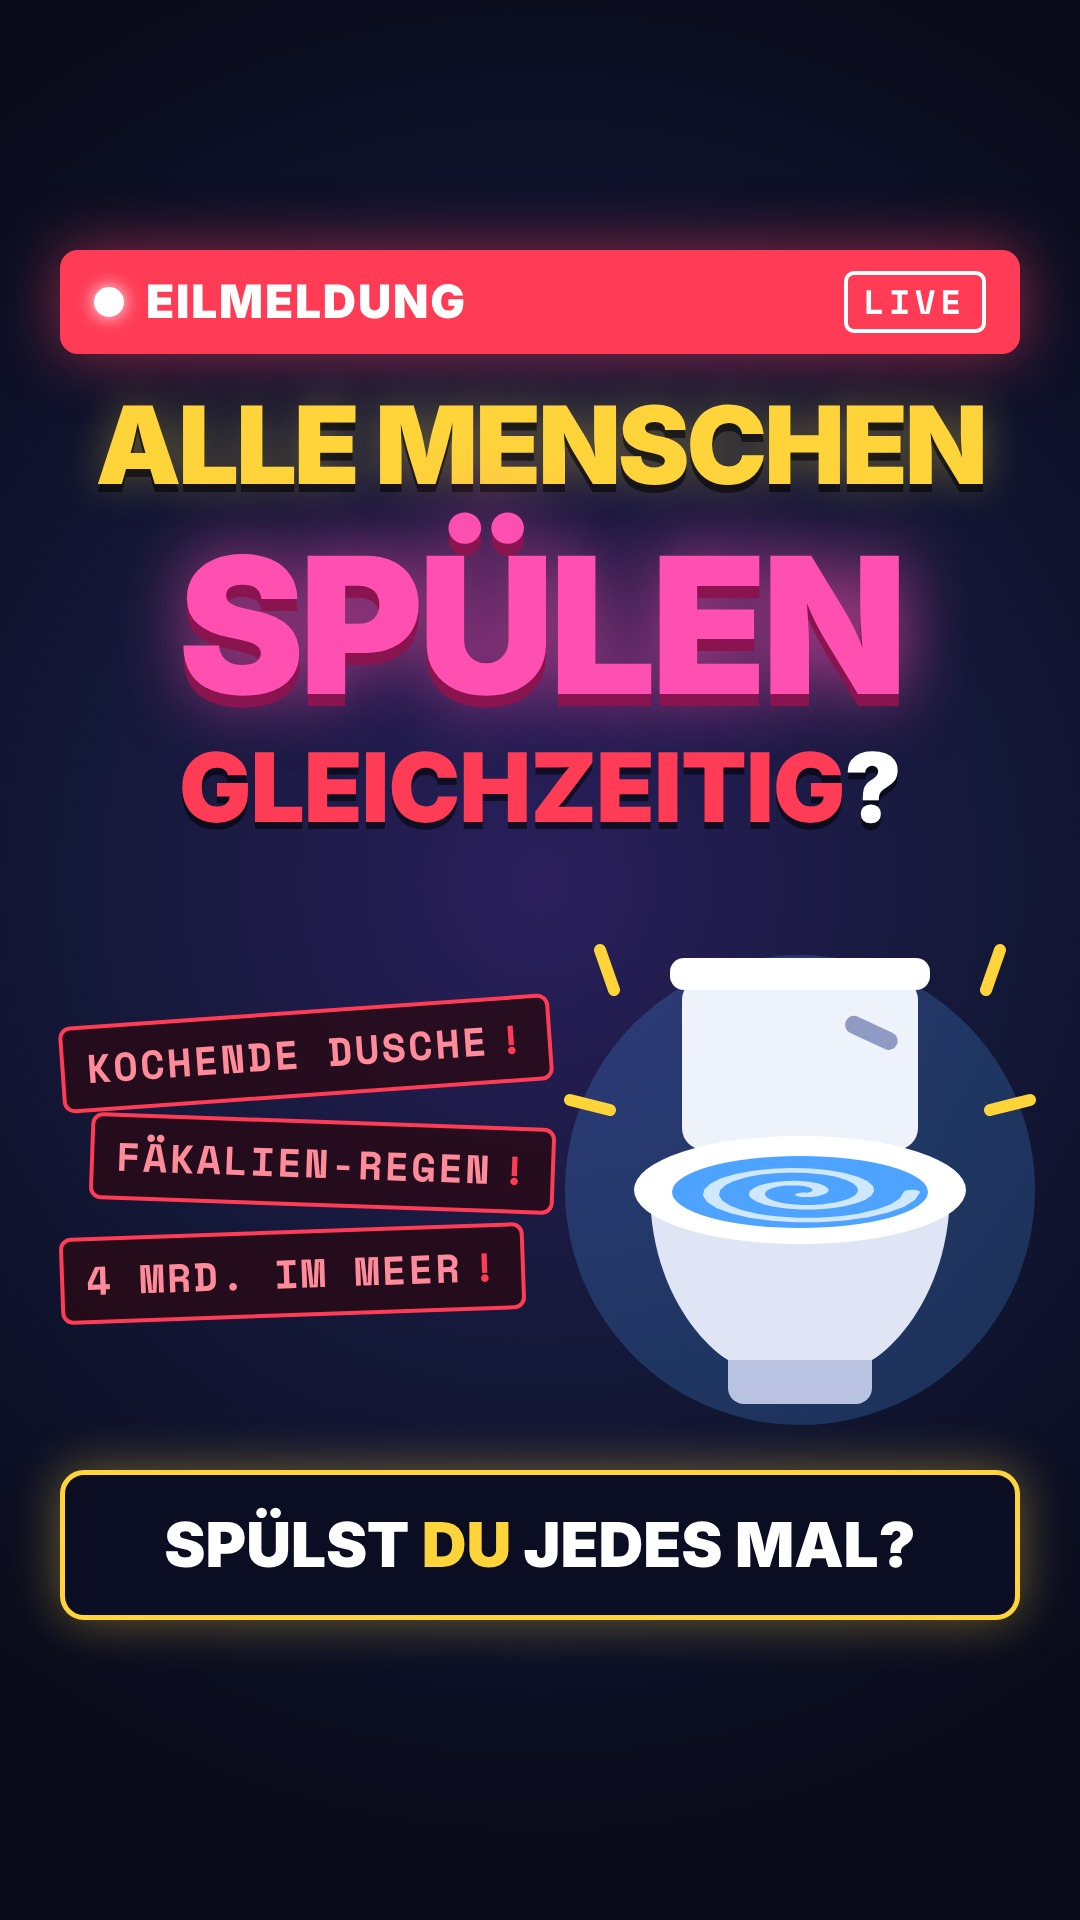
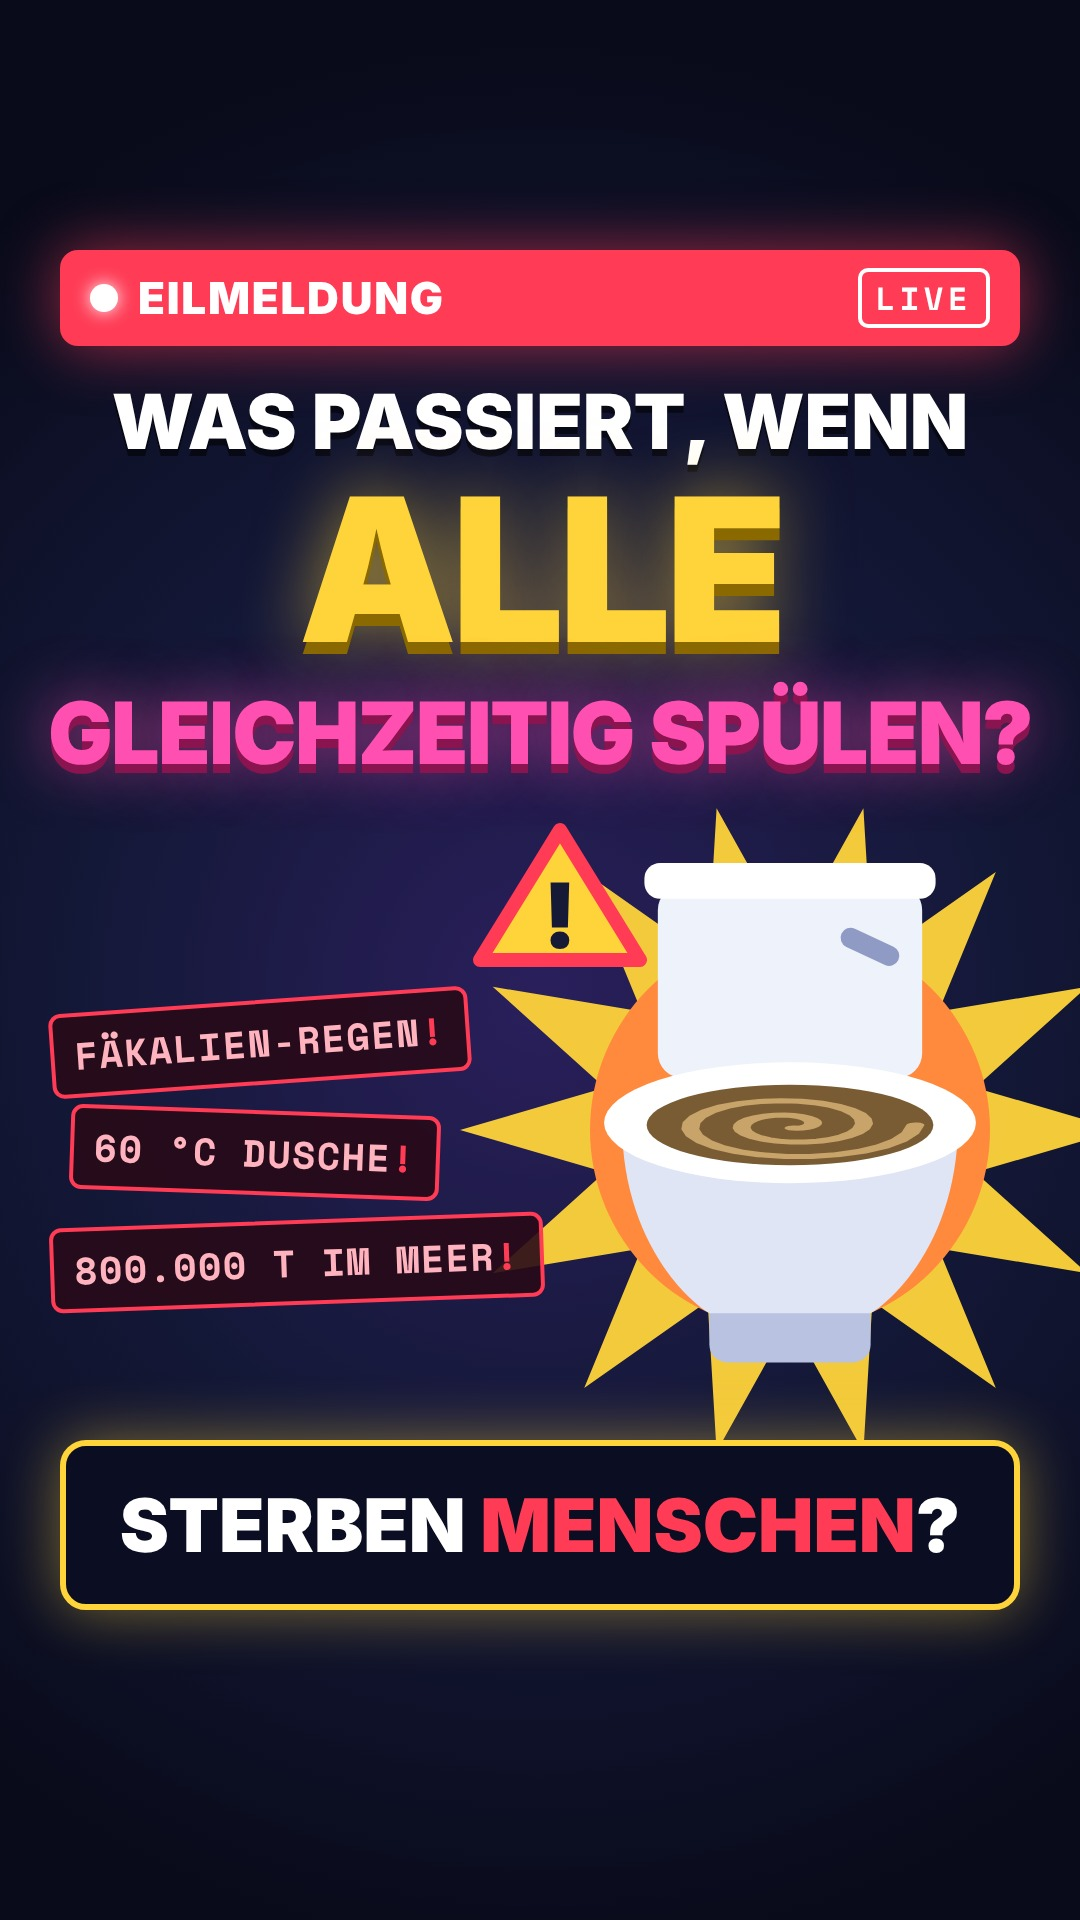
Klospülung: virales Cover (Sterben Menschen?) und neue Beschreibung
Claude-Session: https://claude.ai/code/session_01McNdgXtFA3X1Q1fLpDn8nE

diff --git a/videos/klospuelung/cover/index.html b/videos/klospuelung/cover/index.html
@@ -7,79 +7,59 @@
       * { margin: 0; padding: 0; box-sizing: border-box; }
       html, body { width: 1080px; height: 1920px; overflow: hidden; background: #0a0c1d; }
       #root { position: relative; width: 100%; height: 100%; overflow: hidden;
-        background: radial-gradient(ellipse 85% 50% at 50% 46%, #2a1f5c 0%, #141838 50%, #090b1a 100%); }
+        background: radial-gradient(ellipse 85% 50% at 50% 52%, #2a1f5c 0%, #141838 50%, #090b1a 100%); }
       .abs { position: absolute; }
-
-      /* Cover: Klospülung */
-      #globe { left: 40px; top: 560px; width: 1000px; height: 1000px; }
-
-      /* Eilmeldungs-Leiste oben (sichtbar auch im 3:4-Ausschnitt des Profilrasters) */
-      #bar { left: 60px; top: 250px; width: 960px; height: 104px; border-radius: 18px; background: #ffd43b; color: #161a36 !important;
-        display: flex; align-items: center; padding: 0 34px; color: #fff; box-shadow: 0 0 60px rgba(255,59,85,.55);
-        font-family: "Inter", sans-serif; font-weight: 900; font-size: 46px; letter-spacing: .03em; }
-      #bar .dot { width: 30px; height: 30px; border-radius: 50%; background: #fff; margin-right: 22px; box-shadow: 0 0 18px #fff; }
-      #bar .live { margin-left: auto; font-family: "Space Mono", monospace; font-weight: 700; font-size: 34px;
-        letter-spacing: .14em; padding: 2px 16px; border: 4px solid #fff; border-radius: 10px; }
-
-      /* Schlagzeile */
-      #h1 { left: 0; width: 1080px; top: 392px; text-align: center; font-family: "Inter", sans-serif; font-weight: 900; white-space: nowrap;
-        font-size: 108px; line-height: 1; letter-spacing: -.03em; color: #ffd43b;
-        text-shadow: 0 8px 0 rgba(0,0,0,.55), 0 0 40px rgba(255,212,59,.35); }
-      #h2 { left: 0; width: 1080px; top: 508px; white-space: nowrap; text-align: center; font-family: "Inter", sans-serif; font-weight: 900;
-        font-size: 92px; line-height: 1; letter-spacing: -.01em; color: #fff; text-shadow: 0 7px 0 rgba(0,0,0,.55); }
-      #gta { left: 0; width: 1080px; top: 530px; white-space: nowrap; text-align: center; font-family: "Inter", sans-serif; font-weight: 900;
-        font-size: 190px; line-height: 1; letter-spacing: -.03em; color: #ff4fb0;
-        text-shadow: 0 12px 0 #8a1450, 0 0 70px rgba(255,79,176,.75); }
-      #h3 { left: 0; width: 1080px; top: 740px; white-space: nowrap; text-align: center; font-family: "Inter", sans-serif; font-weight: 900;
-        font-size: 96px; line-height: 1; color: #fff; letter-spacing: -.01em; text-shadow: 0 7px 0 rgba(0,0,0,.55); }
-
-      /* Kalenderblatt, schräg */
-      #cal { left: 760px; top: 1120px; width: 240px; height: 262px; border-radius: 20px; background: #f3f1ea; overflow: hidden;
-        transform: rotate(8deg); box-shadow: 0 24px 60px rgba(0,0,0,.6); }
-      #cal .hd { height: 70px; background: #ff3b55; color: #fff; text-align: center; line-height: 70px;
-        font-family: "Inter", sans-serif; font-weight: 900; font-size: 34px; letter-spacing: .06em; }
-      #cal .d { text-align: center; font-family: "Inter", sans-serif; font-weight: 900; font-size: 150px; line-height: 186px; color: #161a36; }
-
-      /* Was kaputtgeht: Teaser-Chips */
-      .chip { padding: 10px 22px; border: 4px solid #ff3b55; border-radius: 12px; background: rgba(40,10,24,.85);
-        color: #ff8a9a; font-family: "Space Mono", monospace; font-weight: 700; font-size: 40px; letter-spacing: .06em; }
-      .chip b { color: #ff3b55; margin-left: 10px; }
-      #c1 { left: 60px; top: 1010px; transform: rotate(-4deg); }
-      #c2 { left: 90px; top: 1120px; transform: rotate(2deg); }
-      #c3 { left: 60px; top: 1230px; transform: rotate(-2deg); }
-
-      /* Frage unten */
-      #q { left: 60px; width: 960px; top: 1470px; height: 150px; border-radius: 24px; background: #0b0e22;
-        border: 5px solid #ffd43b; box-shadow: 0 0 50px rgba(255,212,59,.4); text-align: center; color: #fff;
-        font-family: "Inter", sans-serif; font-weight: 900; font-size: 70px; line-height: 140px; }
-      #q span { color: #ffd43b; }
+      .c { left: 0; width: 1080px; text-align: center; white-space: nowrap; font-family: "Inter", sans-serif; font-weight: 900; line-height: 1; }
+      #bar { left: 60px; top: 250px; width: 960px; height: 96px; border-radius: 18px; background: #ff3b55; color: #fff; display: flex; align-items: center; padding: 0 30px;
+        box-shadow: 0 0 60px rgba(255,59,85,.6); font: 900 44px Inter, sans-serif; letter-spacing: .04em; }
+      #bar .dot { width: 28px; height: 28px; border-radius: 50%; background: #fff; margin-right: 20px; box-shadow: 0 0 18px #fff; }
+      #bar .live { margin-left: auto; font: 700 32px "Space Mono", monospace; letter-spacing: .14em; padding: 2px 14px; border: 4px solid #fff; border-radius: 10px; }
+      #h1 { top: 384px; font-size: 76px; color: #fff; text-shadow: 0 7px 0 rgba(0,0,0,.55); }
+      #h2 { top: 470px; font-size: 200px; letter-spacing: -.03em; color: #ffd43b; text-shadow: 0 12px 0 #8a6a00, 0 0 70px rgba(255,212,59,.6); }
+      #h3 { top: 690px; font-size: 86px; letter-spacing: -.02em; color: #ff4fb0; text-shadow: 0 9px 0 #8a1450, 0 0 60px rgba(255,79,176,.7); }
+      .chip { padding: 10px 20px; border: 4px solid #ff3b55; border-radius: 12px; background: rgba(40,10,24,.9);
+        color: #ffb3bf; font: 700 38px "Space Mono", monospace; letter-spacing: .04em; white-space: nowrap; }
+      .chip b { color: #ff3b55; }
+      #c1 { left: 50px; top: 1000px; transform: rotate(-4deg); }
+      #c2 { left: 70px; top: 1110px; transform: rotate(2deg); }
+      #c3 { left: 50px; top: 1220px; transform: rotate(-2deg); }
+      #q { left: 60px; width: 960px; top: 1440px; height: 170px; border-radius: 26px; background: #0b0e22; border: 6px solid #ffd43b;
+        box-shadow: 0 0 60px rgba(255,212,59,.45); text-align: center; color: #fff; font: 900 74px/158px Inter, sans-serif; }
+      #q span { color: #ff3b55; }
     </style>
   </head>
   <body>
     <div id="root" data-composition-id="cover" data-start="0" data-duration="1" data-width="1080" data-height="1920" data-no-timeline>
-      <svg id="pb" class="abs" style="left:560px;top:930px;width:480px;height:520px" viewBox="-240 -320 480 520">
-        <circle cx="0" cy="-60" r="235" fill="#4da3ff" opacity=".22"/>
-        <rect x="-72" y="90" width="144" height="64" rx="16" fill="#b9c2e0"/>
-        <path d="M-150 -60 C-150 40 -96 96 -72 110 L72 110 C96 96 150 40 150 -60Z" fill="#dfe5f5"/>
-        <rect x="-34" y="-112" width="68" height="60" fill="#cfd6ec"/>
-        <rect x="-118" y="-272" width="236" height="172" rx="22" fill="#eef2fb"/><rect x="-130" y="-292" width="260" height="32" rx="14" fill="#fff"/>
-        <rect x="46" y="-238" width="56" height="18" rx="9" fill="#8f9bc4" transform="rotate(25 46 -229)"/>
-        <ellipse cx="0" cy="-60" rx="166" ry="54" fill="#fff"/><ellipse cx="0" cy="-58" rx="128" ry="36" fill="#4da3ff"/>
-        <g transform="translate(0 -58) scale(1 0.28)"><path id="sp" fill="none" stroke="#cfe8ff" stroke-width="16" stroke-linecap="round"/></g>
-        <path d="M-200 -300 l14 40 M200 -300 l-14 40 M-230 -150 l40 10 M230 -150 l-40 10" stroke="#ffd43b" stroke-width="12" stroke-linecap="round"/></svg>
-      <script>(()=>{const p=[];for(let i=0;i<=60;i++){const a=i/60*2.2*2*Math.PI,r=112*(1-i/66);p.push((r*Math.cos(a)).toFixed(1)+","+(r*Math.sin(a)).toFixed(1));}document.getElementById("sp").setAttribute("d","M"+p.join(" L"));})();</script>
+      <svg class="abs" style="left:0;top:0;width:1080px;height:1920px" viewBox="0 0 1080 1920">
+        <path id="boom" fill="#ffd43b" opacity=".95"/>
+        <circle cx="790" cy="1130" r="200" fill="#ff8a3d"/>
+        <g transform="translate(790 1190) scale(1.12)">
+          <rect x="-72" y="90" width="144" height="64" rx="16" fill="#b9c2e0"/>
+          <path d="M-150 -60 C-150 40 -96 96 -72 110 L72 110 C96 96 150 40 150 -60Z" fill="#dfe5f5"/>
+          <rect x="-34" y="-112" width="68" height="60" fill="#cfd6ec"/>
+          <rect x="-118" y="-272" width="236" height="172" rx="22" fill="#eef2fb"/><rect x="-130" y="-292" width="260" height="32" rx="14" fill="#fff"/>
+          <rect x="46" y="-238" width="56" height="18" rx="9" fill="#8f9bc4" transform="rotate(25 46 -229)"/>
+          <ellipse cx="0" cy="-60" rx="166" ry="54" fill="#fff"/><ellipse cx="0" cy="-58" rx="128" ry="36" fill="#7a5c34"/>
+          <g transform="translate(0 -58) scale(1 0.28)"><path id="sp" fill="none" stroke="#c9a46a" stroke-width="16" stroke-linecap="round"/></g>
+        </g>
+        <g transform="translate(560 900)"><path d="M0 -70 L80 60 H-80Z" fill="#ffd43b" stroke="#ff3b55" stroke-width="14" stroke-linejoin="round"/>
+          <text x="0" y="48" text-anchor="middle" font-family="Inter" font-weight="900" font-size="90" fill="#161a36">!</text></g>
+      </svg>
+      <script>(()=>{const p=[];for(let i=0;i<=60;i++){const a=i/60*2.2*2*Math.PI,r=112*(1-i/66);p.push((r*Math.cos(a)).toFixed(1)+","+(r*Math.sin(a)).toFixed(1));}
+        document.getElementById("sp").setAttribute("d","M"+p.join(" L"));
+        const b=[];for(let i=0;i<28;i++){const a=i/28*Math.PI*2,r=i%2?190:330;b.push((790+r*Math.cos(a)).toFixed(1)+","+(1130+r*Math.sin(a)).toFixed(1));}
+        document.getElementById("boom").setAttribute("d","M"+b.join(" L")+"Z");})();</script>
 
-      <div id="bar" class="abs" style="background:#ff3b55;color:#fff !important;font-size:46px;white-space:nowrap;letter-spacing:.04em"><span class="dot"></span>EILMELDUNG<span class="live">LIVE</span></div>
-      <div id="h1" class="abs">ALLE MENSCHEN</div>
-      <div id="gta" class="abs">SPÜLEN</div>
-      <div id="h3" class="abs"><span style="color:#ff3b55">GLEICHZEITIG</span>?</div>
+      <div id="bar" class="abs"><span class="dot"></span>EILMELDUNG<span class="live">LIVE</span></div>
+      <div id="h1" class="abs c">WAS PASSIERT, WENN</div>
+      <div id="h2" class="abs c">ALLE</div>
+      <div id="h3" class="abs c">GLEICHZEITIG SPÜLEN?</div>
 
-      <div id="c1" class="abs chip">KOCHENDE DUSCHE<b>!</b></div>
-      <div id="c2" class="abs chip">FÄKALIEN-REGEN<b>!</b></div>
-      <div id="c3" class="abs chip">4 MRD. IM MEER<b>!</b></div>
+      <div id="c1" class="abs chip">FÄKALIEN-REGEN<b>!</b></div>
+      <div id="c2" class="abs chip">60 °C DUSCHE<b>!</b></div>
+      <div id="c3" class="abs chip">800.000 T IM MEER<b>!</b></div>
 
-      <div id="q" class="abs" style="font-size:62px">SPÜLST <span>DU</span> JEDES MAL?</div>
+      <div id="q" class="abs">STERBEN <span>MENSCHEN</span>?</div>
     </div>
-    
   </body>
 </html>

diff --git a/videos/klospuelung/BESCHREIBUNG.md b/videos/klospuelung/BESCHREIBUNG.md
@@ -1,19 +1,28 @@
 # Beschreibung – Was wäre, wenn alle gleichzeitig spülen?
 
-## Hauptversion
-Alle Menschen der Welt spülen GLEICHZEITIG 🚽 Fäkalien-Regen in Paris, 4 Milliarden im Meer … und sterben Menschen? 😳 Spülst du nach jedem Gang – oder seltener? 👇
+## Hauptversion (empfohlen)
+Was passiert, wenn ALLE Menschen gleichzeitig spülen? 🚽 Bleib bis zum Ende – die Chance liegt bei 0,000…% mit 17 Milliarden Nullen 🤯 Spülst du nach jedem Gang oder seltener? 👇
 #waswärewenn #klospülung #wissen #gedankenexperiment #fyp
 
-## Alternative 1
-24 Milliarden Liter – 9.600 Olympia-Becken in einer Sekunde 💧 Wasserdruck weg, Klärwerke laufen über, Flüsse kippen um. Hättest du das gedacht? 👇
-#waswärewenn #wasser #wissenswert #fakten #fyp
+## Alternative 1 (Schock-Fakt vorne)
+800.000 Tonnen Fäkalien auf einen Schlag – wenn die ganze Welt gleichzeitig spült 🚽💩 Und sterben dabei Menschen? Die Antwort überrascht. Jedes Mal spülen oder seltener? 👇
+#waswärewenn #klospülung #krassefakten #wissenswert #fyp
 
-## Alternative 2
-Was passiert, wenn die ganze Welt gleichzeitig spült? 🌍🚽 Und die andere Hälfte geht ins Meer … Jedes Mal spülen oder seltener?
-#waswärewenn #klospülung #lernenmittiktok #gedankenexperiment #viral
+## Alternative 2 (Neugier + Alltag)
+Wenn alle gleichzeitig spülen, wird deine Dusche plötzlich 60 °C heiß 🔥 Und das ist noch das Harmloseste … Schreib's in die Kommentare: Spülst du jedes Mal? 👇
+#waswärewenn #gedankenexperiment #lernenmittiktok #klospülung #fyp
 
 ## Angepinnter Kommentar
-Fun Fact: Bei großen Fußballspielen sehen Wasserwerke in der Halbzeit echte Verbrauchsspitzen – weil alle gleichzeitig aufs Klo gehen 😅 Folg mir, sonst … du weißt schon 🚽💥
+Ehrliche Umfrage: 🅰 Jedes Mal spülen 🅱 Seltener … und wer hat jetzt Angst um sein Klo heute Abend? 😅🚽💥
+
+## Antwort-Vorlage für Kommentare (Engagement)
+„Gute Frage! Rechnung: Jeder spült ca. 1-mal in 17.000 Sekunden → für 4 Mrd. gleichzeitig 10 hoch minus 17 Milliarden. Also: Dein Klo ist sicher … wahrscheinlich 😏“
+
+## Posting-Tipps
+- Cover: `renders/cover.jpg` in TikTok als Titelbild wählen (alles Wichtige liegt im 3:4-Bereich fürs Profilraster).
+- Trend-Sound leise darunter (10–20 %), Stimme bleibt vorne.
+- Posten am frühen Abend (18–21 Uhr) – passt zum Ende „heute Abend“.
+- In der ersten Stunde auf Kommentare antworten (Umfrage-Kommentar oben anpinnen).
 
 ---
-Zahlen: ~4 Mrd. Menschen mit Spültoilette, ~4 Mrd. ohne (WHO/UNICEF JMP 2023: 3,5 Mrd. ohne sichere Sanitärversorgung); 4 Mrd. × 6 L ≈ 24 Mrd. L; Olympiabecken = 2,5 Mio. L → 9.600 Becken; 800.000 t ≈ über 5.000 Blauwale (je 100–150 t); WHO: ~505.000 Durchfall-Tote/Jahr durch verschmutztes Trinkwasser; 4 Mrd. × ~200 g ≈ 800.000 t; Paris: Mischkanalisation, Gullydeckel können bei Überdruck hochgedrückt werden.
+Zahlen: ~4 Mrd. Menschen mit Spültoilette, ~4 Mrd. ohne (WHO/UNICEF JMP 2023); 4 Mrd. × 6 L ≈ 24 Mrd. L = 9.600 Olympiabecken (2,5 Mio. L); 4 Mrd. × ~200 g ≈ 800.000 t ≈ über 5.000 Blauwale (je 100–150 t); Meeresspiegel: ~2 Mio. m³ auf 3,6 × 10⁸ km² ≈ 0,000005 mm; WHO: ~505.000 Durchfall-Tote/Jahr durch verschmutztes Trinkwasser; ~5 Spülungen/Tag × 80 J. ≈ 140.000; Chance gleichzeitig: (5/86.400)^(4 Mrd.) ≈ 10^(−17 Mrd.).
